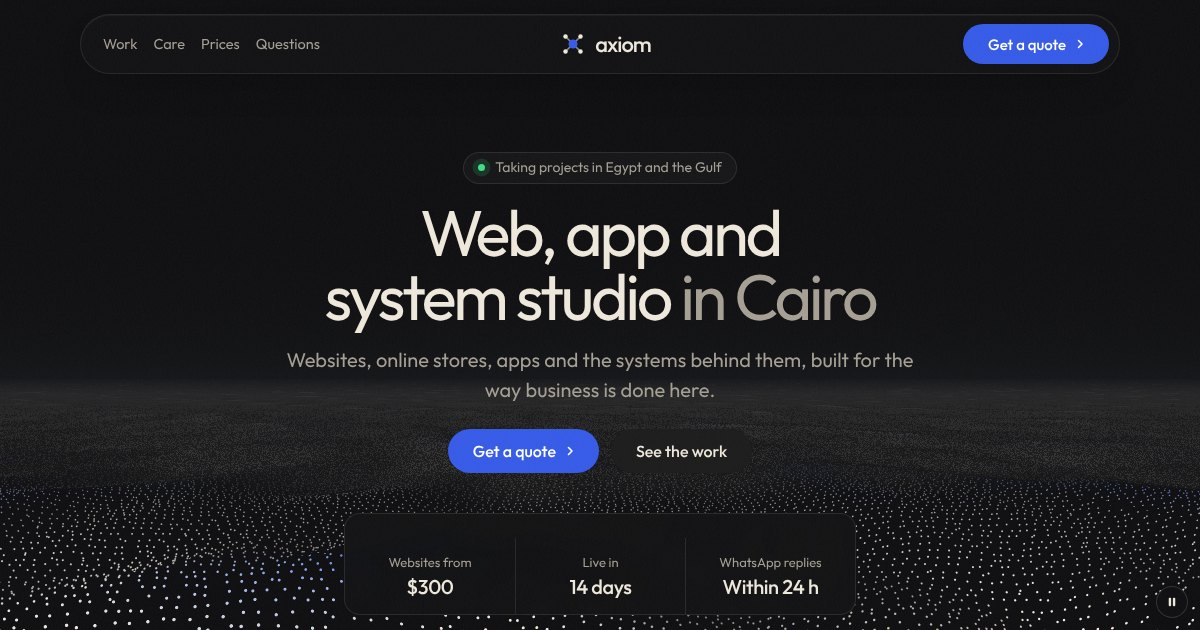
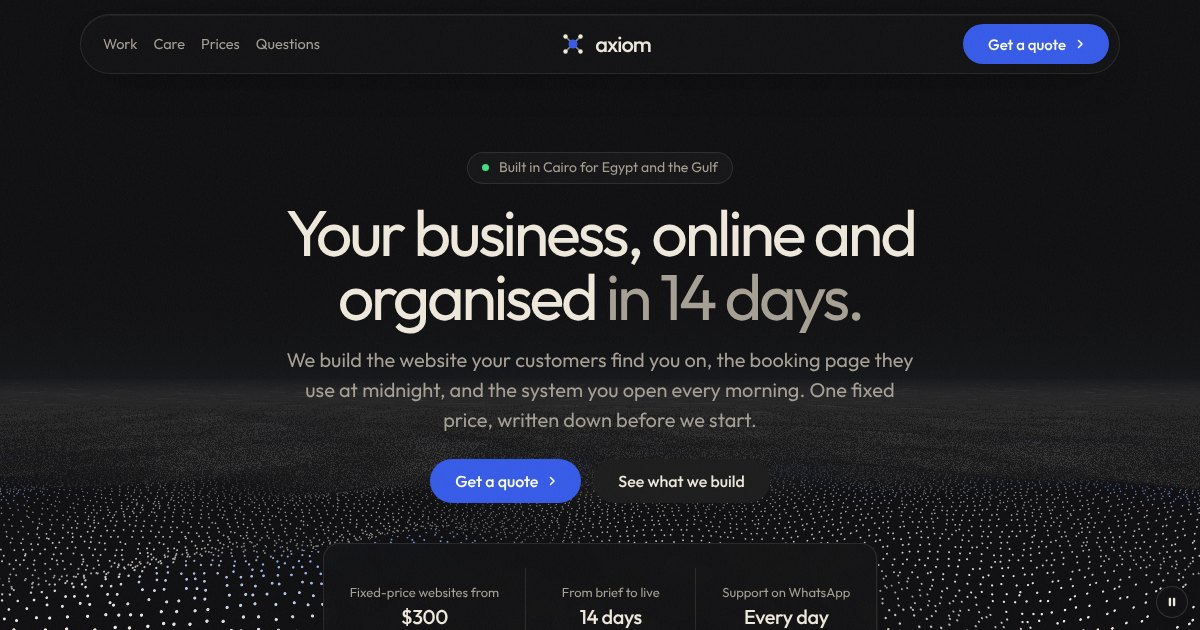
Sharper hero copy in English and Arabic
Claude-Session: https://claude.ai/code/session_01V4BmkqRESwyhbSGPUhMTQV

diff --git a/assets/js/site.js b/assets/js/site.js
@@ -80,6 +80,11 @@ const T = {
     "foot.build":"Build","foot.studio":"Studio","foot.talk":"Talk to us","foot.tools":"Tools we connect",
     "foot.tm":"Product names and logos are trademarks of their owners.",
     "gate.label":"Choose a language",
+    "hero.note":"Built in Cairo for Egypt and the Gulf",
+    "hero.h1a":"Your business, online and organised","hero.h1b":"in 14 days.",
+    "hero.lead":"We build the website your customers find you on, the booking page they use at midnight, and the system you open every morning. One fixed price, written down before we start.",
+    "cta.work":"See what we build",
+    "fact.1":"Fixed-price websites from","fact.2":"From brief to live","fact.2v":"14 days","fact.3":"Support on WhatsApp","fact.3v":"Every day",
     "tab.store":"Take bookings","price.h2":"Prices in US dollars (USD).",
     "tp.store":"Customers pick a service, a day and a time, and get a WhatsApp reminder. Pay on arrival or by transfer. From {shop}.",
     "sc.book":"A clinic's booking page: a service, a day and a time chosen, and the confirm button",
@@ -103,8 +108,6 @@ const T = {
     "bk.time":"Time","bk.sum":"Your booking","bk.when":"Sunday 15 March, 11:30","bk.what":"Check-up with Dr Yasmine Adel","bk.price":"EGP 350, paid at the clinic",
     "bk.btn":"Confirm booking","bk.note":"A confirmation and a reminder come on WhatsApp.",
     "nav.care":"Care","care.h2":"Automation and monthly care.","care.h2b":"The work after launch.",
-    "hero.note":"Taking projects in Egypt and the Gulf","hero.h1a":"Web, app and system studio","hero.h1b":"in Cairo",
-    "fact.1":"Websites from","fact.2":"Live in","fact.2v":"14 days","fact.3":"WhatsApp replies","fact.3v":"Within 24 h",
     "plan.care.per":" a month","care.alt":"The monthly care panel: last backup, uptime, the certificate date and the change hours used",
     "care.h":"nileclinic.com · this month","care.r1":"Last backup","care.v1":"Today, 03:00","care.r2":"Online","care.v2":"99.98%",
     "care.r3":"Security certificate","care.v3":"Renews 12 August","care.r4":"Changes used","care.v4":"1 h 20 of 2 h",
@@ -247,6 +250,11 @@ const T = {
     "foot.build":"اللي بنبنيه","foot.studio":"الاستوديو","foot.talk":"كلّمنا","foot.tools":"الأدوات اللي بنربطها",
     "foot.tm":"أسماء المنتجات وشعاراتها علامات تجارية لأصحابها.",
     "gate.label":"اختار اللغة",
+    "hero.note":"من القاهرة، لمصر والخليج",
+    "hero.h1a":"شغلك أونلاين ومتنظّم","hero.h1b":"خلال ١٤ يوم.",
+    "hero.lead":"بنبني الموقع اللي عملاءك بيلاقوك عليه، وصفحة الحجز اللي بيحجزوا منها نص الليل، والنظام اللي بتفتحه كل صبح. بسعر ثابت ومكتوب قبل ما نبدأ.",
+    "cta.work":"شوف بنعمل إيه",
+    "fact.1":"مواقع بسعر ثابت من","fact.2":"من الفكرة للإطلاق","fact.2v":"١٤ يوم","fact.3":"دعم على واتساب","fact.3v":"كل يوم",
     "tab.store":"استقبل حجوزات","price.h2":"الأسعار بالدولار الأمريكي (USD).",
     "tp.store":"العميل يختار الخدمة واليوم والميعاد، ويوصله تذكير على واتساب. الدفع عند الحضور أو بالتحويل. من {shop}.",
     "sc.book":"صفحة حجز عيادة: خدمة ويوم وميعاد متختارين وزر التأكيد",
@@ -270,8 +278,6 @@ const T = {
     "bk.time":"الميعاد","bk.sum":"حجزك","bk.when":"الأحد ١٥ مارس، ١١:٣٠","bk.what":"كشف مع د. ياسمين عادل","bk.price":"٣٥٠ جنيه، الدفع في العيادة",
     "bk.btn":"أكّد الحجز","bk.note":"التأكيد والتذكير بيوصلوا على واتساب.",
     "nav.care":"المتابعة","care.h2":"الأتمتة والمتابعة الشهرية.","care.h2b":"الشغل اللي بعد الإطلاق.",
-    "hero.note":"بنستقبل مشاريع في مصر والخليج","hero.h1a":"استوديو مواقع وتطبيقات وأنظمة","hero.h1b":"في القاهرة",
-    "fact.1":"المواقع من","fact.2":"تشتغل خلال","fact.2v":"١٤ يوم","fact.3":"الرد على واتساب","fact.3v":"خلال ٢٤ ساعة",
     "plan.care.per":" في الشهر","care.alt":"لوحة المتابعة الشهرية: آخر نسخة احتياطية ونسبة التشغيل وتاريخ الشهادة وساعات التعديل",
     "care.h":"nileclinic.com · الشهر ده","care.r1":"آخر نسخة احتياطية","care.v1":"النهارده، ٣:٠٠ ص","care.r2":"شغال","care.v2":"٩٩٫٩٨٪",
     "care.r3":"شهادة الأمان","care.v3":"بتتجدد ١٢ أغسطس","care.r4":"التعديلات المستخدمة","care.v4":"ساعة و٢٠ من ساعتين",

diff --git a/index.html b/index.html
@@ -3,7 +3,7 @@
 <head>
 <meta charset="utf-8">
 <meta name="viewport" content="width=device-width, initial-scale=1, viewport-fit=cover">
-<title>Axiom: web, app and system studio for Egypt and the Gulf</title>
+<title>Axiom: websites, booking pages and business systems for Egypt and the Gulf</title>
 <meta name="description" content="Websites from $300 live in 14 days, plus online stores, mobile apps and business systems, with WhatsApp support every working day.">
 <meta property="og:type" content="website">
 <meta property="og:title" content="Axiom: web, app and system studio for Egypt and the Gulf">
@@ -102,17 +102,17 @@ html[lang="ar"] { --font-display: "Readex Pro", "Outfit", sans-serif; --font-tex
     <div class="hero__fx" data-fx="dot-terrain" data-fx-seed="7" data-fx-params='{"spacing": 16, "dot": 2.6, "amplitude": 0.15, "waveScale": 0.7, "speed": 0.06, "opacity": 0.9, "shade": 0.7, "crest": 0.9, "horizon": 0.6, "fog": 0.45, "haze": 0.5, "calm": 0.0, "calmX": 0.5, "calmY": 0.3}' aria-hidden="true"></div>
     <div class="wrap"><div class="hero-text">
       <div class="hero__copy">
-        <p class="hero__note"><span class="dot" aria-hidden="true"></span><span data-i18n="hero.note">Taking projects in Egypt and the Gulf</span></p>
-        <h1 id="hero-h"><span data-i18n="hero.h1a">Web, app and system studio</span> <span class="hero__soft" data-i18n="hero.h1b">in Cairo</span></h1>
-        <p class="hero__lead" data-i18n="hero.lead">Websites, online stores, apps and the systems behind them, built for the way business is done here.</p>
+        <p class="hero__note"><span class="dot" aria-hidden="true"></span><span data-i18n="hero.note">Built in Cairo for Egypt and the Gulf</span></p>
+        <h1 id="hero-h"><span data-i18n="hero.h1a">Your business, online and organised</span> <span class="hero__soft" data-i18n="hero.h1b">in 14 days.</span></h1>
+        <p class="hero__lead" data-i18n="hero.lead">We build the website your customers find you on, the booking page they use at midnight, and the system you open every morning. One fixed price, written down before we start.</p>
         <div class="btn-row">
           <a class="btn btn--primary" href="#quote"><span data-i18n="cta.quote">Get a quote</span><svg class="m-arrow" viewBox="0 0 12 12" aria-hidden="true"><path class="m-arrow__stem" d="M1 6h8"/><path class="m-arrow__head" d="M4.5 2.5 8 6l-3.5 3.5"/></svg></a>
-          <a class="btn btn--secondary" href="#work" data-i18n="cta.work">See the work</a>
+          <a class="btn btn--secondary" href="#work" data-i18n="cta.work">See what we build</a>
         </div>
         <dl class="hero__facts">
-          <div><dt data-i18n="fact.1">Websites from</dt><dd data-price="site">$300</dd></div>
-          <div><dt data-i18n="fact.2">Live in</dt><dd data-i18n="fact.2v">14 days</dd></div>
-          <div><dt data-i18n="fact.3">WhatsApp replies</dt><dd data-i18n="fact.3v">Within 24 h</dd></div>
+          <div><dt data-i18n="fact.1">Fixed-price websites from</dt><dd data-price="site">$300</dd></div>
+          <div><dt data-i18n="fact.2">From brief to live</dt><dd data-i18n="fact.2v">14 days</dd></div>
+          <div><dt data-i18n="fact.3">Support on WhatsApp</dt><dd data-i18n="fact.3v">Every day</dd></div>
         </dl>
       </div>
     </div></div>
